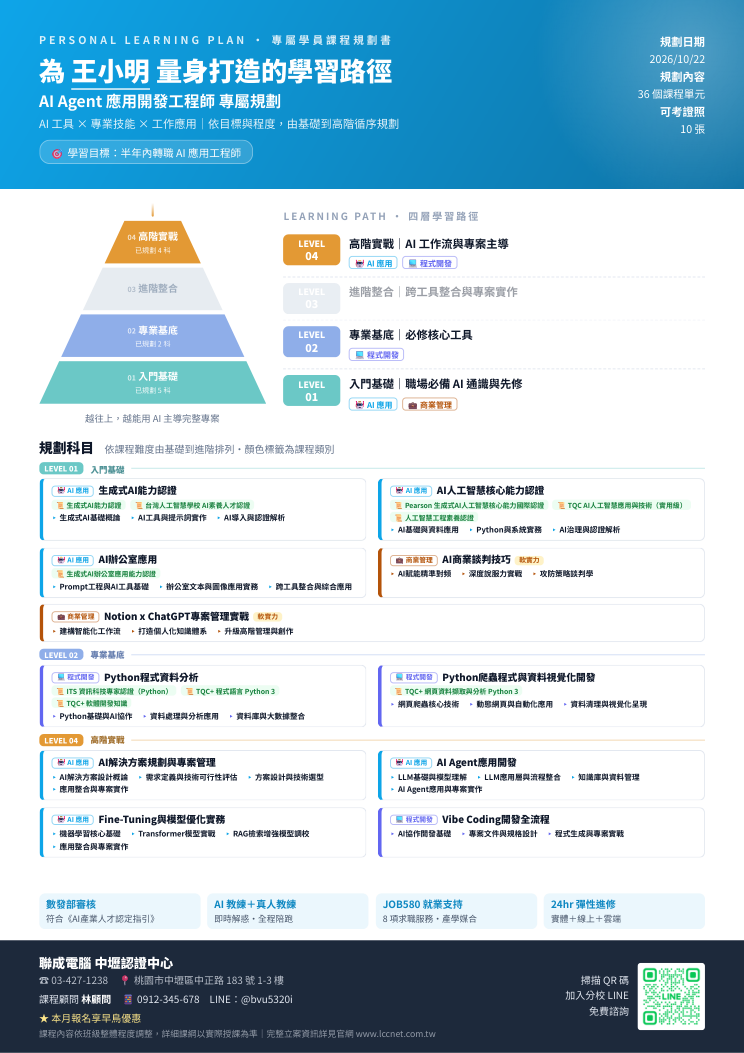
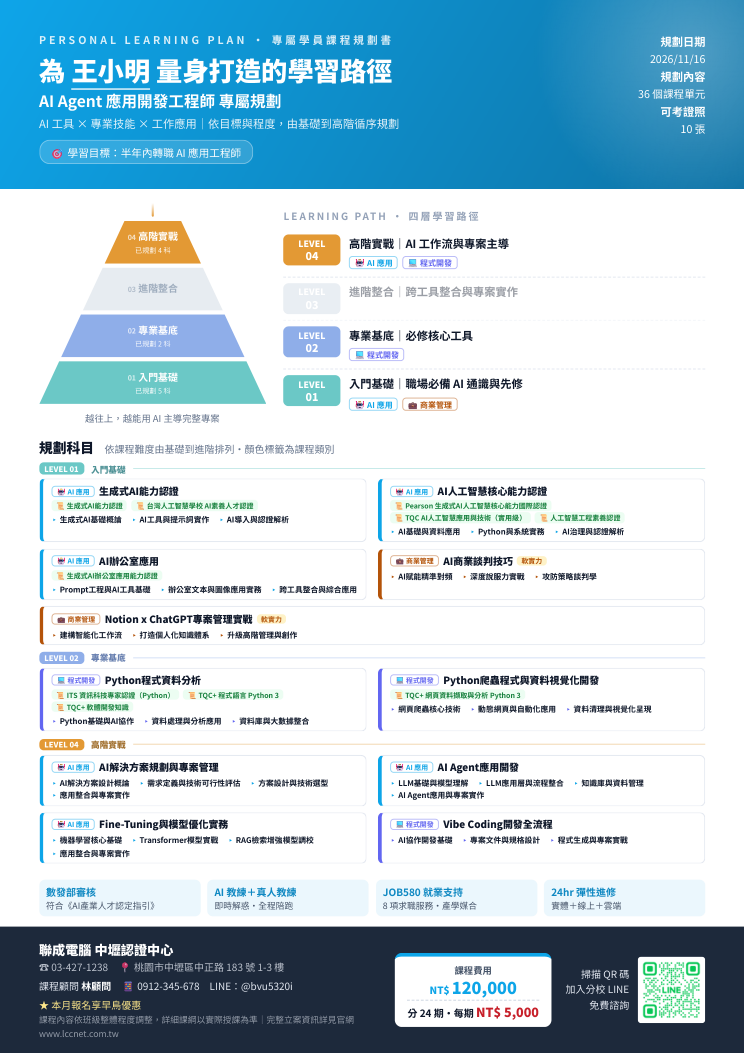
Guide: cover the custom-level version, fee fields and empty STEP 3; refresh screenshots

diff --git a/guide.html b/guide.html
@@ -70,14 +70,14 @@ th{background:var(--bg);font-weight:700}
   <h1>專屬學員課程規劃書　使用說明</h1>
   <p>給課程顧問使用：勾選單科、一鍵產生雙面 A4 規劃書，可直接列印或存成 PDF 傳給學員。</p>
   <nav class="toc">
-    <a href="#v">三個版本</a><a href="#flow">5 步驟完成</a><a href="#s1">STEP 1 資料</a><a href="#s2">STEP 2 帶入 DM</a>
+    <a href="#v">四個版本</a><a href="#flow">5 步驟完成</a><a href="#s1">STEP 1 資料</a><a href="#s2">STEP 2 帶入 DM</a>
     <a href="#s3">STEP 3 勾選單科</a><a href="#s4">STEP 4 背面</a><a href="#print">列印／存 PDF</a><a href="#a4">DM 內容</a>
-    <a href="#radar">雷達版</a><a href="#quiz">測驗版</a><a href="#faq">常見問題</a>
+    <a href="#radar">雷達版</a><a href="#quiz">測驗版</a><a href="#custom">自訂等級版</a><a href="#faq">常見問題</a>
   </nav>
 </header>
 
 <section id="v">
-  <h2>三個版本，選一個用</h2>
+  <h2>四個版本，選一個用</h2>
   <div class="vers">
     <div class="ver"><b>原版：課程規劃書</b><a class="u" href="index.html">lccdavidxu3-pixel.github.io/course-plan-builder/</a>
       <p>最基本的版本。勾課程 → 產生 DM。</p></div>
@@ -85,8 +85,10 @@ th{background:var(--bg);font-weight:700}
       <p>多了何倫碼雷達圖，依勾選的課程自動算出學員的興趣代碼。</p></div>
     <div class="ver"><b>測驗版：興趣測驗</b><a class="u" href="quiz.html">…/course-plan-builder/quiz.html</a>
       <p>先讓學員做 24 題興趣測驗，系統推薦課程後一鍵產生規劃書。</p></div>
+    <div class="ver"><b>自訂等級版</b><a class="u" href="custom.html">…/course-plan-builder/custom.html</a>
+      <p>從原版延伸，可以自己調整每門課放在第幾級，也能改等級的名稱和說明。</p></div>
   </div>
-  <div class="tip"><b>三個版本的操作方式幾乎一樣。</b>下面先用「原版」說明，雷達版和測驗版多出來的功能放在最後。三個版本的勾選紀錄分開保存，切換版本不會互相蓋掉。</div>
+  <div class="tip"><b>四個版本的操作方式幾乎一樣。</b>下面先用「原版」說明，雷達版、測驗版、自訂等級版多出來的功能放在最後。四個版本的勾選紀錄分開保存，切換版本不會互相蓋掉。</div>
 </section>
 
 <section id="flow">
@@ -98,14 +100,14 @@ th{background:var(--bg);font-weight:700}
     <div><b>看預覽</b><br>右側即時顯示正反兩面 A4</div>
     <div><b>列印／存 PDF</b><br>按右上角按鈕</div>
   </div>
-  <div class="shot"><img src="guide/g_overview.png" alt="整體畫面：左側操作區、右側 A4 預覽、右上角列印按鈕"></div>
+  <div class="shot"><img src="guide/g_overview.png?v=1116" alt="整體畫面：左側操作區、右側 A4 預覽、右上角列印按鈕"></div>
   <div class="cap">① 左側是操作區　② 右側是 A4 預覽（上面是正面，往下捲是背面）　③ 右上角是列印／存 PDF</div>
 </section>
 
 <section id="s1">
   <h2><span class="n">STEP 1</span>學員與顧問資料</h2>
   <div class="two">
-    <div class="shot sm"><img src="guide/g_step1.png" alt="STEP 1 欄位"></div>
+    <div class="shot sm"><img src="guide/g_step1.png?v=1116" alt="STEP 1 欄位"></div>
     <div>
       <ul>
         <li><b>學員姓名</b>：會印在標題「為 ○○○ 量身打造的學習路徑」。</li>
@@ -113,11 +115,15 @@ th{background:var(--bg);font-weight:700}
         <li><b>規劃名稱</b>（選填）：留空時，系統會自動用帶入的 DM 名稱，或依勾選課程的類別命名。</li>
         <li><b>課程顧問、顧問電話</b>：印在頁尾。</li>
         <li><b>分校</b>：選了之後，頁尾自動帶入分校電話與地址。</li>
+        <li><b>課程費用</b>（選填）：例如 <kbd>120000</kbd>，有沒有打逗號都可以，會印在正面頁尾。</li>
+        <li><b>分期期數</b>（選填）：例如 <kbd>24</kbd>。</li>
+        <li><b>每期金額</b>：填好費用和期數後<b>自動算出</b>（費用 ÷ 期數，有零頭就進位）。也可以改成實際方案的金額，改過之後再調期數就不會被蓋掉。</li>
         <li><b>顧問備註</b>（選填）：印在頁尾，例如「本月報名享早鳥優惠」。</li>
         <li><b>QR Code</b>（選填）：可上傳自己的 LINE 或報名連結 QR。</li>
       </ul>
       <div class="tip"><b>中壢分校會自動帶入：</b>選「中壢認證中心」，LINE ID 會自動填入 @bvu5320i，頁尾也會出現分校的 LINE QR Code，不用另外上傳。</div>
-      <div class="tip"><b>顧問資料會記住：</b>顧問姓名、電話、LINE、分校下次打開還在；學員姓名不會保存。</div>
+      <div class="tip"><b>顧問資料會記住：</b>顧問姓名、電話、LINE、分校下次打開還在；學員姓名和<b>費用不會保存</b>，避免把上一位學員的價格帶到下一位。</div>
+      <div class="tip"><b>費用印在哪裡？</b>只印在<b>正面頁尾</b>中間的白色小卡：上面是課程費用，下面是「分 24 期・每期 NT$5,000」。背面不印費用；三格都空白時，規劃書和原本一樣。</div>
     </div>
   </div>
 </section>
@@ -125,12 +131,12 @@ th{background:var(--bg);font-weight:700}
 <section id="s2">
   <h2><span class="n">STEP 2</span>快速帶入專班 DM（選填）</h2>
   <div class="two">
-    <div class="shot sm"><img src="guide/g_step23.png" alt="STEP 2 帶入 DM 與 STEP 3 DM 分類"></div>
+    <div class="shot sm"><img src="guide/g_step23.png?v=1116" alt="STEP 2 帶入 DM 與 STEP 3 DM 分類"></div>
     <div>
       <ol>
         <li>在下拉選單選一份專班 DM，例如「AI Agent 應用開發工程師」。</li>
         <li>按「<b>帶入</b>」，這份 DM 的主要課程就會一次全部勾好。</li>
-        <li>帶入後還可以到 STEP 3 自由增加或取消課程。</li>
+        <li>帶入後，STEP 3 會<b>自動切到這份 DM</b>，直接看到剛帶入的課程，還可以自由增加或取消。</li>
       </ol>
       <div class="warn"><b>注意：</b>按「帶入」會<b>取代</b>目前已勾的課程，系統會先跳出確認。</div>
       <div class="tip"><b>什麼時候用 STEP 2？</b>學員已經確定想上某一個專班時最快。如果學員想自己挑、跨好幾個專班，直接用 STEP 3。</div>
@@ -141,9 +147,20 @@ th{background:var(--bg);font-weight:700}
 <section id="s3">
   <h2><span class="n">STEP 3</span>依專班 DM 勾選單科</h2>
   <h3>1. 先點 DM，再勾課程</h3>
-  <p>上方按鈕就是 15 份專班 DM，再加上「外語」。點一份 DM，下方只列出這份 DM 的課程；點「全部課程」會列出所有課程。按鈕上的數字是這份 DM 已勾了幾門。</p>
   <div class="two">
-    <div class="shot sm"><img src="guide/g_list.png" alt="課程清單依難度分組"></div>
+    <div class="shot sm"><img src="guide/g_empty.png?v=1116" alt="剛打開時課程清單是空白的，要先點 DM"></div>
+    <div>
+      <p>上方按鈕就是 15 份專班 DM，再加上「外語」。</p>
+      <ul>
+        <li><b>剛打開時課程清單是空白的</b>，要先點一份 DM，下方才會列出這份 DM 的課程。</li>
+        <li>想看所有課程，點「<b>全部課程</b>」。</li>
+        <li>直接在搜尋框打字，會自動切到「全部課程」並列出搜尋結果。</li>
+        <li>按鈕上的數字是這份 DM 已勾了幾門。</li>
+      </ul>
+    </div>
+  </div>
+  <div class="two">
+    <div class="shot sm"><img src="guide/g_list.png?v=1116" alt="課程清單依難度分組"></div>
     <div>
       <ul>
         <li>課程依<b>難度</b>分成四層：01 入門基礎 → 02 專業基底 → 03 進階整合 → 04 高階實戰，也就是 DM 上金字塔的四層。</li>
@@ -159,7 +176,7 @@ th{background:var(--bg);font-weight:700}
   </div>
   <h3>4. 同一門課只能選一次（反灰）</h3>
   <div class="two">
-    <div class="shot sm"><img src="guide/g_lock.png" alt="重複課程反灰"></div>
+    <div class="shot sm"><img src="guide/g_lock.png?v=1116" alt="重複課程反灰"></div>
     <div>
       <p>很多課程同時出現在好幾份 DM，例如「Python 程式資料分析」在 AI Agent 和 AI 人工智慧工程師兩份 DM 裡都有。</p>
       <ul>
@@ -174,7 +191,7 @@ th{background:var(--bg);font-weight:700}
 <section id="s4">
   <h2><span class="n">STEP 4</span>背面設定</h2>
   <div class="two">
-    <div class="shot sm"><img src="guide/g_step4.png" alt="STEP 4 背面設定"></div>
+    <div class="shot sm"><img src="guide/g_step4.png?v=1116" alt="STEP 4 背面設定"></div>
     <div>
       <ul>
         <li><b>職涯方向</b>：依勾選的課程自動帶出，數字是對應幾門課。點一下可以隱藏或顯示，不想印在背面的方向點掉就好。</li>
@@ -208,8 +225,8 @@ th{background:var(--bg);font-weight:700}
 <section id="a4">
   <h2>DM 正反面內容</h2>
   <div class="two">
-    <div><div class="shot"><img src="guide/g_a4_0.png" alt="A4 正面範例"></div><div class="cap">正面：學習路徑與規劃科目</div></div>
-    <div><div class="shot"><img src="guide/g_a4_1.png" alt="A4 背面範例"></div><div class="cap">背面：職缺薪資與可考證照</div></div>
+    <div><div class="shot"><img src="guide/g_a4_0.png?v=1116" alt="A4 正面範例"></div><div class="cap">正面：學習路徑與規劃科目</div></div>
+    <div><div class="shot"><img src="guide/g_a4_1.png?v=1116" alt="A4 背面範例"></div><div class="cap">背面：職缺薪資與可考證照</div></div>
   </div>
   <table>
     <tr><th style="width:18%">位置</th><th>內容</th></tr>
@@ -217,13 +234,13 @@ th{background:var(--bg);font-weight:700}
     <tr><td>正面中段</td><td>學習金字塔與四層學習路徑：有規劃課程的層會上色，最高層附一個舉例</td></tr>
     <tr><td>正面下方</td><td>規劃科目：依難度排列，每張卡片列出模組、實戰成果、可考證照</td></tr>
     <tr><td>背面</td><td>可能職缺與月薪範圍、個人接案行情、可考取證照（同一張證照只列一次）、JOB580 就業服務</td></tr>
-    <tr><td>頁尾</td><td>分校電話地址、課程顧問、LINE、顧問備註、QR Code</td></tr>
+    <tr><td>頁尾</td><td>分校電話地址、課程顧問、LINE、顧問備註、QR Code；正面頁尾另有課程費用與分期（有填才出現）</td></tr>
   </table>
 </section>
 
 <section id="radar">
   <h2>雷達版多了什麼</h2>
-  <div class="shot"><img src="guide/g_radar.png" alt="雷達版：左側六型分數、背面雷達圖分析"></div>
+  <div class="shot"><img src="guide/g_radar.png?v=1116" alt="雷達版：左側六型分數、背面雷達圖分析"></div>
   <ul>
     <li>左側 <b>STEP 1.5</b> 顯示何倫碼六型的分數：R 實踐者、I 思考者、A 創造者、S 助人者、E 影響者、C 組織者。</li>
     <li>分數<b>依勾選的課程自動計算</b>，每勾或取消一門課就會更新，不能手動調整。</li>
@@ -235,7 +252,7 @@ th{background:var(--bg);font-weight:700}
 <section id="quiz">
   <h2>測驗版：先測驗，再產生規劃書</h2>
   <div class="two">
-    <div class="shot sm"><img src="guide/g_quizcard.png" alt="STEP 0 興趣測驗"></div>
+    <div class="shot sm"><img src="guide/g_quizcard.png?v=1116" alt="STEP 0 興趣測驗"></div>
     <div>
       <ol>
         <li>左側最上方 <b>STEP 0</b> 按「<b>開始測驗</b>」，會跳出全螢幕測驗畫面，可以把平板或電腦直接交給學員。</li>
@@ -246,8 +263,8 @@ th{background:var(--bg);font-weight:700}
     </div>
   </div>
   <div class="two">
-    <div><div class="shot"><img src="guide/g_quiz_q.png" alt="測驗題目畫面"></div><div class="cap">作答畫面：點選後自動進入下一題，可以回上一題</div></div>
-    <div><div class="shot"><img src="guide/g_quiz_r.png" alt="測驗結果畫面"></div><div class="cap">結果畫面：雷達圖、興趣代碼、推薦類別與推薦課程</div></div>
+    <div><div class="shot"><img src="guide/g_quiz_q.png?v=1116" alt="測驗題目畫面"></div><div class="cap">作答畫面：點選後自動進入下一題，可以回上一題</div></div>
+    <div><div class="shot"><img src="guide/g_quiz_r.png?v=1116" alt="測驗結果畫面"></div><div class="cap">結果畫面：雷達圖、興趣代碼、推薦類別與推薦課程</div></div>
   </div>
   <ul>
     <li>測驗完成後，背面的雷達圖會用<b>測驗分數</b>畫；STEP 3 的 DM 按鈕會用 ★ 標出推薦方向。</li>
@@ -256,11 +273,41 @@ th{background:var(--bg);font-weight:700}
   <div class="warn"><b>提醒：</b>這份測驗依何倫碼六型架構設計，是選課參考用，不是正式的心理測驗。</div>
 </section>
 
+<section id="custom">
+  <h2>自訂等級版：自己決定課程放在第幾級</h2>
+  <p>操作和原版一樣，左側多了 <b>STEP 4 · 自訂等級</b>（原本的背面設定改成 STEP 5）。有兩種調整方式：</p>
+  <h3>1. 調整課程等級</h3>
+  <div class="two">
+    <div class="shot sm"><img src="guide/g_custom_lv.png?v=1116" alt="勾選的課程下方有 L1～L4 按鈕"></div>
+    <div>
+      <ul>
+        <li>在 STEP 3 勾選課程後，課程下方會出現 <b>L1、L2、L3、L4</b> 四個按鈕。</li>
+        <li>點一下就能把這門課移到那一級，正面的金字塔科數和課程卡排列會同步更新。</li>
+        <li>調整過的課會用橘字標出「<b>已調整（原 L2）</b>」，一眼看出哪些改過。</li>
+      </ul>
+    </div>
+  </div>
+  <h3>2. 自訂等級名稱與說明</h3>
+  <div class="two">
+    <div class="shot sm"><img src="guide/g_custom_def.png?v=1116" alt="STEP 4 自訂等級文字"></div>
+    <div>
+      <p>四個等級各有四個欄位可以直接修改，改完規劃書馬上更新：</p>
+      <ul>
+        <li><b>等級名稱</b>：金字塔上的字，例如把「高階實戰」改成「大師實戰」。</li>
+        <li><b>路徑標題</b>、<b>說明</b>：正面「四層學習路徑」的文字。</li>
+        <li><b>舉例</b>：只在有規劃課程的最高等級顯示。</li>
+      </ul>
+      <div class="tip"><b>改錯了？</b>按「<b>還原課程等級</b>」或「<b>還原等級文字</b>」，就會回到預設。</div>
+      <div class="tip"><b>設定會記住：</b>等級的調整會留在這台電腦的瀏覽器，下次打開還在；不會影響其他三個版本。</div>
+    </div>
+  </div>
+</section>
+
 <section id="faq">
   <h2>常見問題</h2>
   <dl class="qa">
     <dt>打開網頁看到的還是舊畫面？</dt>
-    <dd>按 <kbd>Ctrl</kbd> + <kbd>F5</kbd> 強制重新整理。網站更新後最慢可能要等幾分鐘才生效。</dd>
+    <dd>按 <kbd>Ctrl</kbd> + <kbd>F5</kbd> 強制重新整理。還是舊的，就在網址後面加上 <kbd>?v=1</kbd>（數字隨意）再開一次。網站更新後最慢可能要等 10 分鐘才生效。</dd>
     <dt>學員資料會不會外流？</dt>
     <dd>不會。所有填寫和勾選都只存在你自己這台電腦的瀏覽器裡，不會上傳到網路。</dd>
     <dt>換一台電腦，之前的勾選不見了？</dt>
@@ -272,7 +319,11 @@ th{background:var(--bg);font-weight:700}
     <dt>印出來沒有顏色？</dt>
     <dd>列印視窗的「選項」要勾選「背景圖形」。</dd>
     <dt>課程、證照或薪資資料有錯？</dt>
-    <dd>請通知網站管理者修改，三個版本會一起更新。</dd>
+    <dd>請通知網站管理者修改，四個版本會一起更新。</dd>
+    <dt>為什麼 STEP 3 一打開是空白的？</dt>
+    <dd>這是刻意的設計：先點一份 DM，才會列出那份 DM 的科目，比較好找。想看全部課程就點「全部課程」，或直接搜尋。</dd>
+    <dt>每期金額不是我要的數字？</dt>
+    <dd>系統是用費用 ÷ 期數自動算，有零頭會進位。如果分期方案有手續費或固定金額，直接把「每期金額」改成正確數字就好。</dd>
   </dl>
 </section>
 </div>
